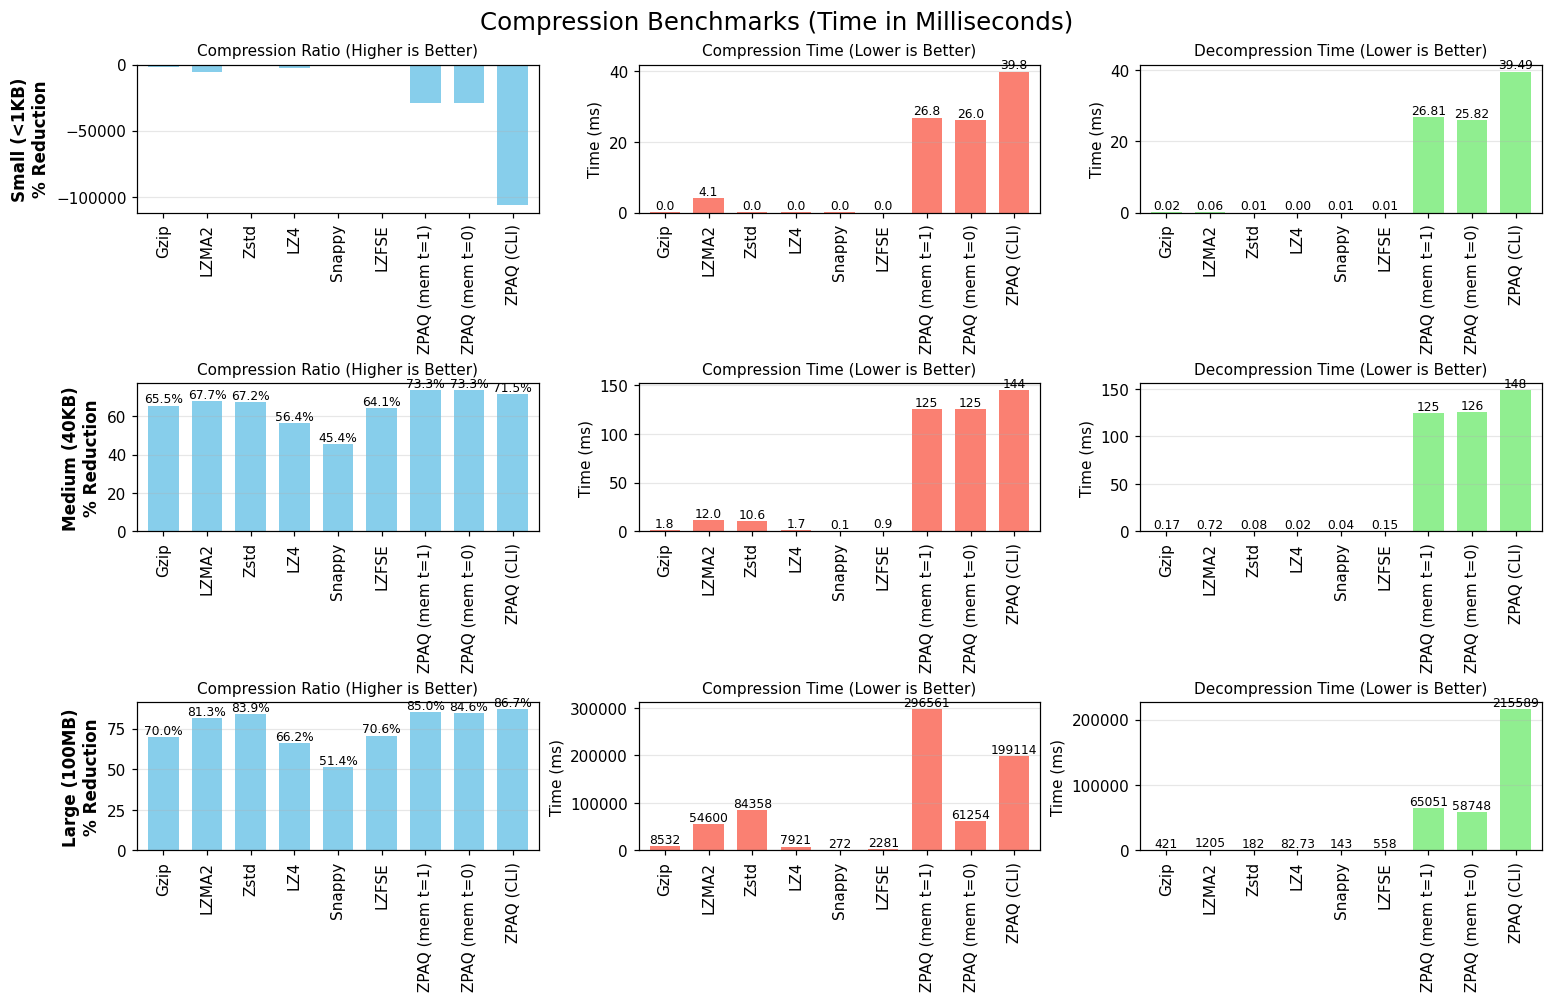
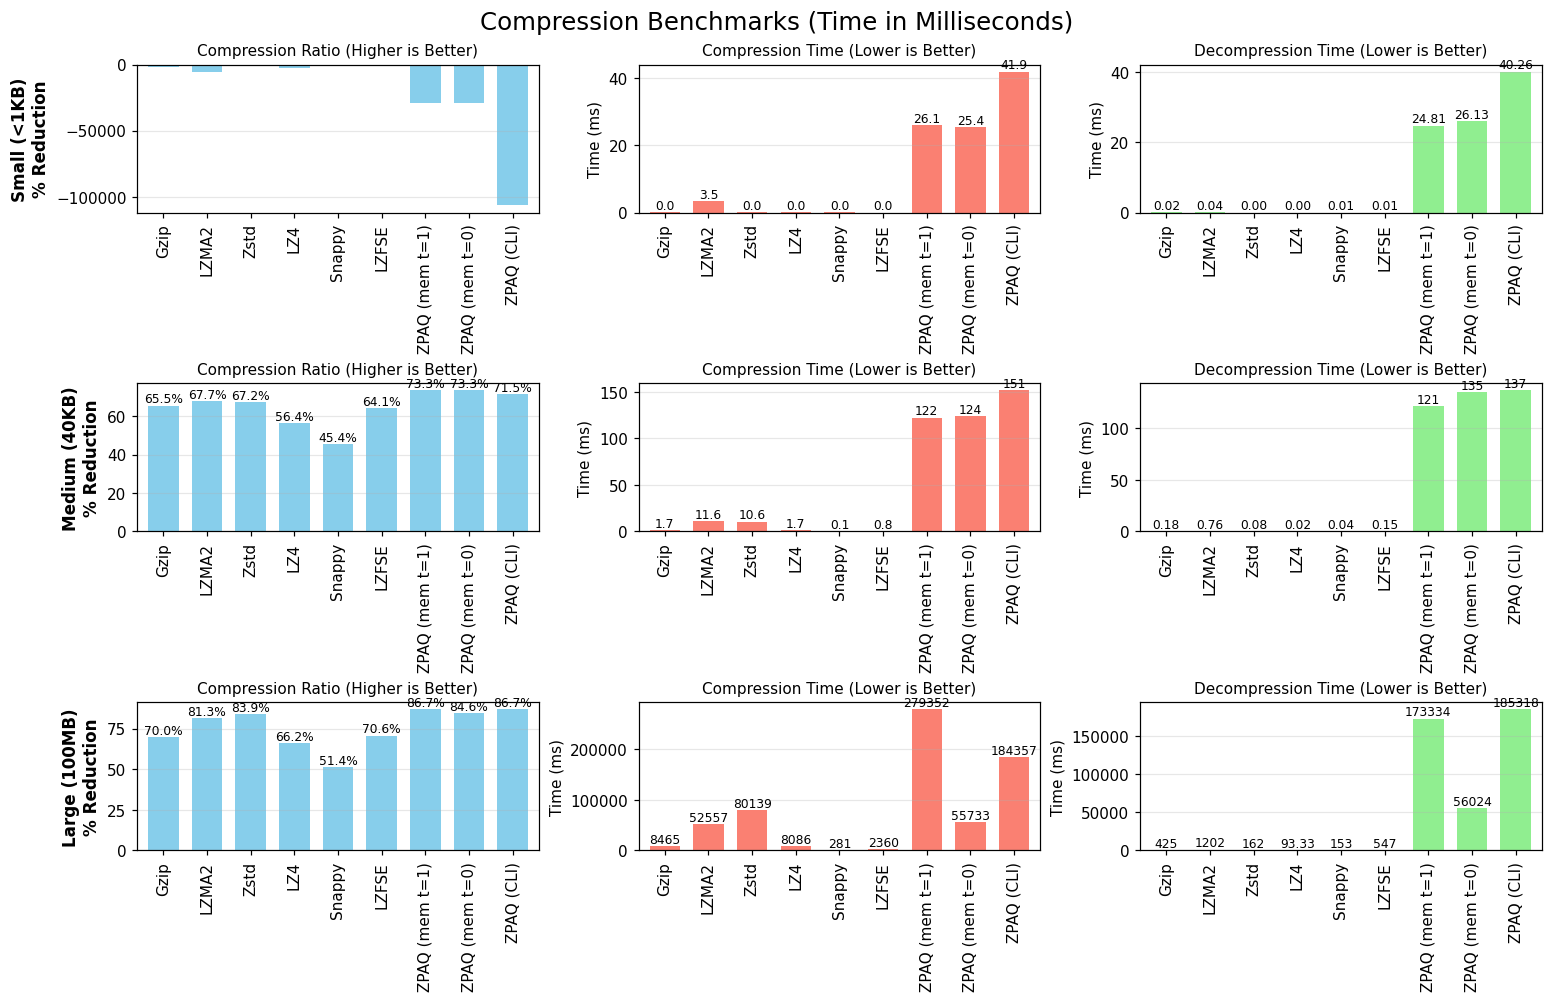
docs: refresh benchmark figure + tables with v0.3.4 B=6 fix; non-dedup compress now matches CLI ratio at 100MB

diff --git a/README.md b/README.md
@@ -37,7 +37,7 @@ Benchmarks vs the official `zpaq.exe -m5` (Ryzen-class 12-core x86_64, level 5).
 | --- | --- | --- | --- | --- | --- |
 | 1 MB text | 2.25 s | 0.56 s (**4.0×**) | 2.23 s | 0.64 s (**3.5×**) | **+0.013 pp** |
 | 10 MB text | 24.67 s | 4.36 s (**5.7×**) | 24.74 s | 4.29 s (**5.8×**) | **+0.001 pp** |
-| 100 MB text | 188.79 s | 44.86 s (**4.2×**) | 185.47 s | 44.91 s (**4.1×**) | **+0.078 pp** |
+| 100 MB text | 184.36 s | 55.73 s (**3.3×**) | 185.32 s | 56.02 s (**3.3×**) | **+0.078 pp** (dedup) / tie (t=1) |
 
 Full breakdown by thread count below. CLI is the official `zpaq.exe` v7.15 invoked with `-m5` (its speeds already include the `-t0` default of two worker threads). `mem(t=N)` is `zpaq.compress(data, level=5, threads=N)`. Times in seconds; ratio is bytes-reduced over original.
 
@@ -63,10 +63,10 @@ Full breakdown by thread count below. CLI is the official `zpaq.exe` v7.15 invok
 
 | algo | compress | decompress | ratio % |
 | --- | --- | --- | --- |
-| `zpaq.exe -m5` | 188.79 s | 185.47 s | 86.588 % |
-| `zpaq.compress(t=1)` | 248.63 s | 66.07 s | 85.059 % |
+| `zpaq.exe -m5` | 184.36 s | 185.32 s | 86.74 % |
+| `zpaq.compress(t=1)` | 279.35 s | 173.33 s | 86.72 % |
 | `zpaq.compress(dedup=True)` | 180.19 s | 184.52 s | **86.666 %** |
-| `zpaq.compress(t=0)` (12 cores) | **44.86 s** | **44.91 s** | 84.210 % |
+| `zpaq.compress(t=0)` (12 cores) | **55.73 s** | **56.02 s** | 84.56 % |
 
 Why this is faster than the official CLI
 ---
